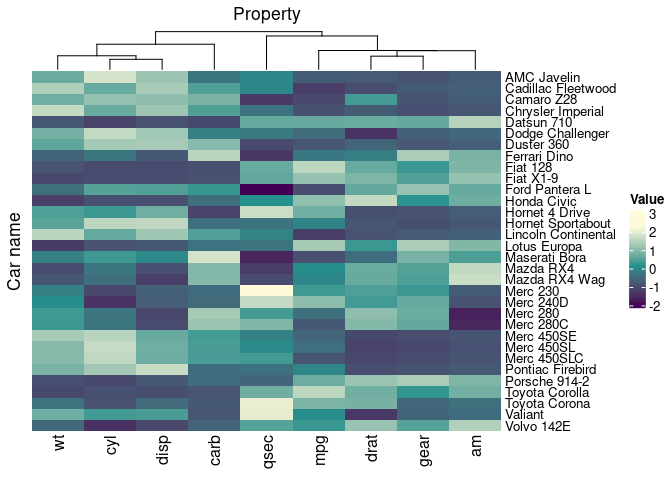
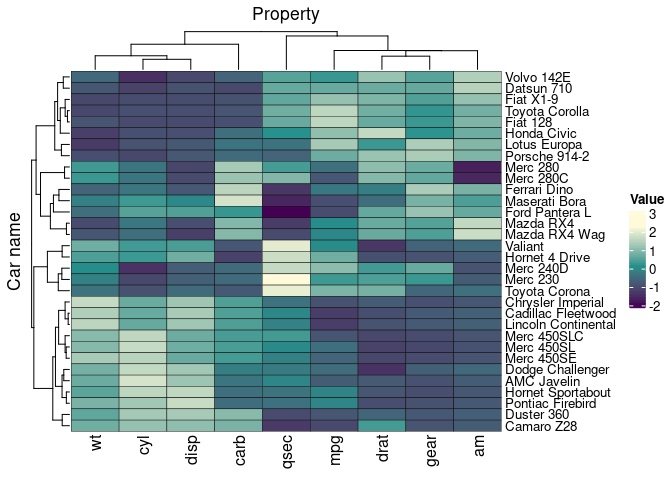
version UP update README

diff --git a/README.md b/README.md
@@ -284,6 +284,17 @@ tidyHeatmap::pasilla %>%
 
 ![](man/figures/unnamed-chunk-14-1.png)<!-- -->
 
+# Split cladogram
+
+``` r
+mtcars_tidy %>% 
+    heatmap(`Car name`, Property, Value ) %>%
+    split_rows(2) %>%
+    split_columns(2)
+```
+
+![](man/figures/unnamed-chunk-15-1.png)<!-- -->
+
 # ComplexHeatmap further styling
 
 Add cell borders
@@ -296,7 +307,7 @@ Add cell borders
         ) 
 ```
 
-![](man/figures/unnamed-chunk-15-1.png)<!-- -->
+![](man/figures/unnamed-chunk-16-1.png)<!-- -->
 
 Drop row clustering
 
@@ -308,4 +319,4 @@ Drop row clustering
         ) 
 ```
 
-![](man/figures/unnamed-chunk-16-1.png)<!-- -->
+![](man/figures/unnamed-chunk-17-1.png)<!-- -->
